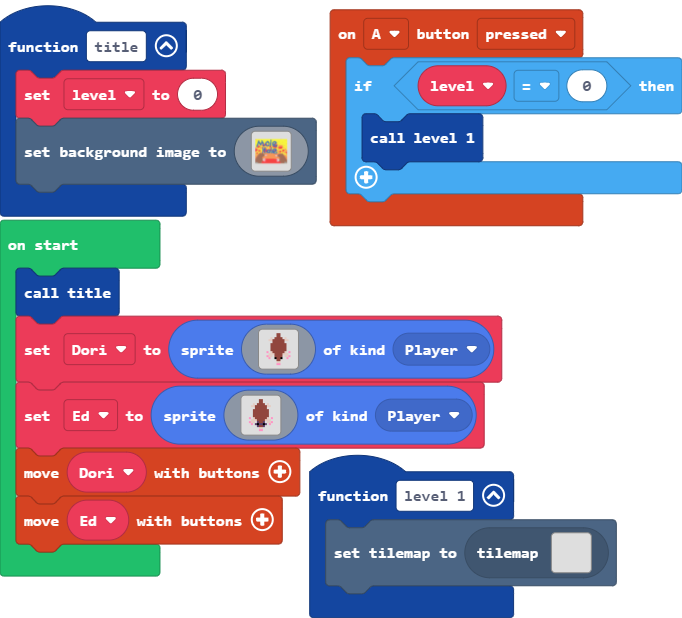
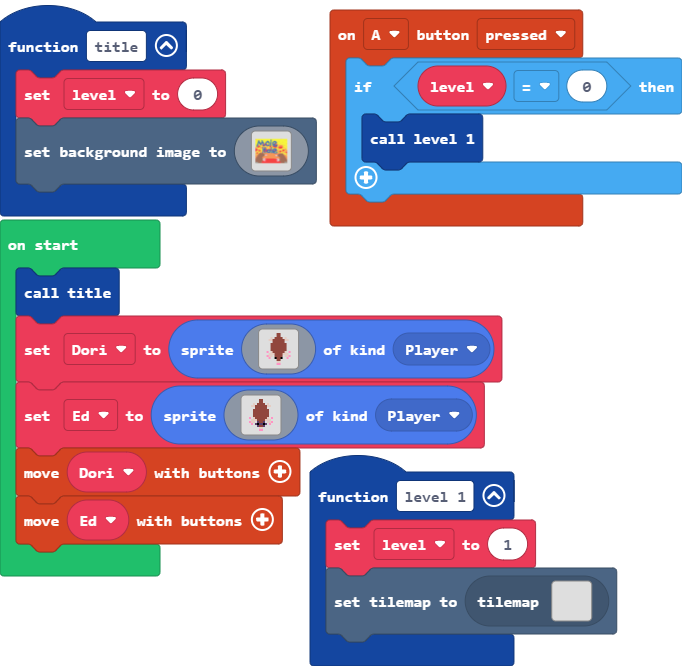
Update main.blocks, main.ts

diff --git a/main.ts b/main.ts
@@ -129,6 +129,7 @@ controller.A.onEvent(ControllerButtonEvent.Pressed, function () {
     }
 })
 function level_1 () {
+    level = 1
     tiles.setCurrentTilemap(tilemap`level1`)
 }
 let level = 0
